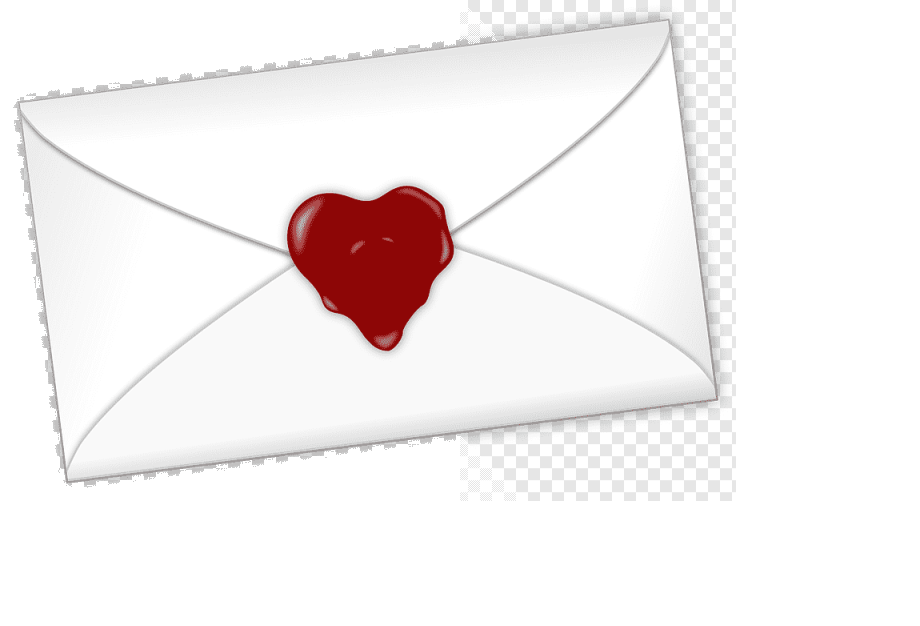
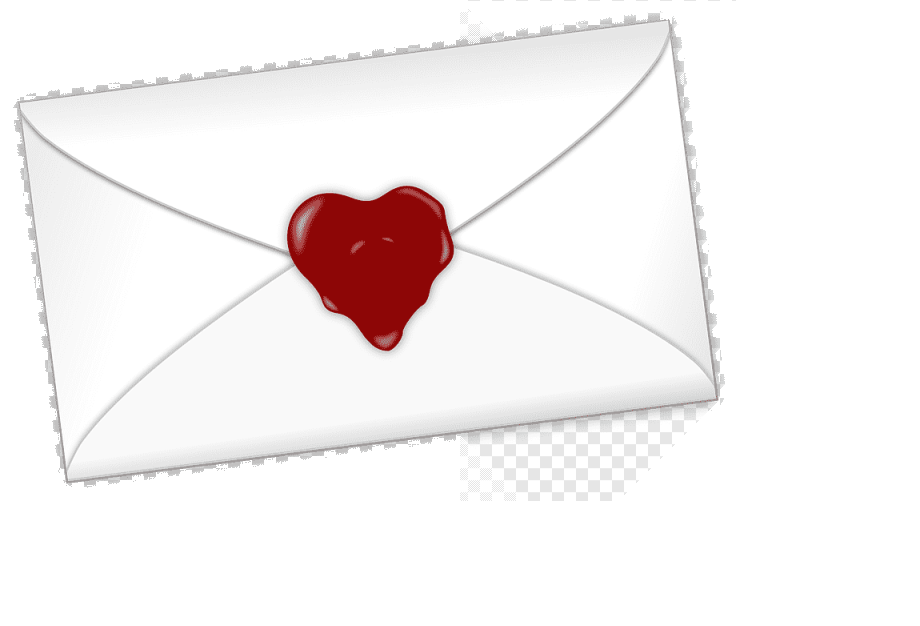
правко

Changed region(s): [[0.487, 0.0, 0.8217, 0.8195]]

diff --git a/index.html b/index.html
@@ -36,12 +36,15 @@
       <div class="main-sections">
         <button class="section-link" onclick="showPage('photos')">
           <img src="foto.png" class="section-link-img" alt="Фото">
+          <span class="section-link-label">фотокарточки</span>
         </button>
         <button class="section-link" onclick="showPage('music')">
           <img src="key.png" class="section-link-img" alt="Музыка">
+          <span class="section-link-label">плейлист</span>
         </button>
         <button class="section-link" onclick="showPage('letter')">
           <img src="letter.png" class="section-link-img" alt="Письмо">
+          <span class="section-link-label">письмо</span>
         </button>
       </div>
     </div>

diff --git a/style.css b/style.css
@@ -175,6 +175,7 @@ body::before {
 .main-sections {
   display: flex;
   gap: 2.5rem;
+  align-items: flex-end;
   animation: fadeUp 0.8s ease 1s both;
 }
 .section-link {
@@ -197,6 +198,7 @@ body::before {
   filter: drop-shadow(0 2px 6px rgba(26,82,54,0.15));
 }
 .section-link:hover .section-link-img { transform: scale(1.12); }
+.section-link-label { font-size: 11px; letter-spacing: 0.12em; text-transform: lowercase; font-weight: 500; color: var(--muted); }
 
 .main-oval-window .main-eyebrow { margin-bottom: 0.5rem; text-shadow: 0 0 20px rgba(224,242,232,1), 0 0 40px rgba(224,242,232,1); }
 .main-oval-window .main-name { font-size: clamp(2.5rem, 6vw, 5rem); text-shadow: 0 0 20px rgba(224,242,232,1), 0 0 40px rgba(224,242,232,1), 0 0 60px rgba(224,242,232,0.8); }
@@ -205,6 +207,7 @@ body::before {
 .main-oval-window .main-divider { margin: 0.6rem auto; }
 .main-oval-window .main-sections { gap: 1.2rem; }
 .main-oval-window .section-link-img { height: 44px; }
+.main-oval-window .section-link-label { font-size: 9px; text-shadow: 0 0 10px rgba(224,242,232,1); }
 
 /* PAGE 2 — PHOTOS */
 #page-photos { padding-top: 5rem; padding-bottom: 2rem; justify-content: flex-start; min-height: 100vh; }